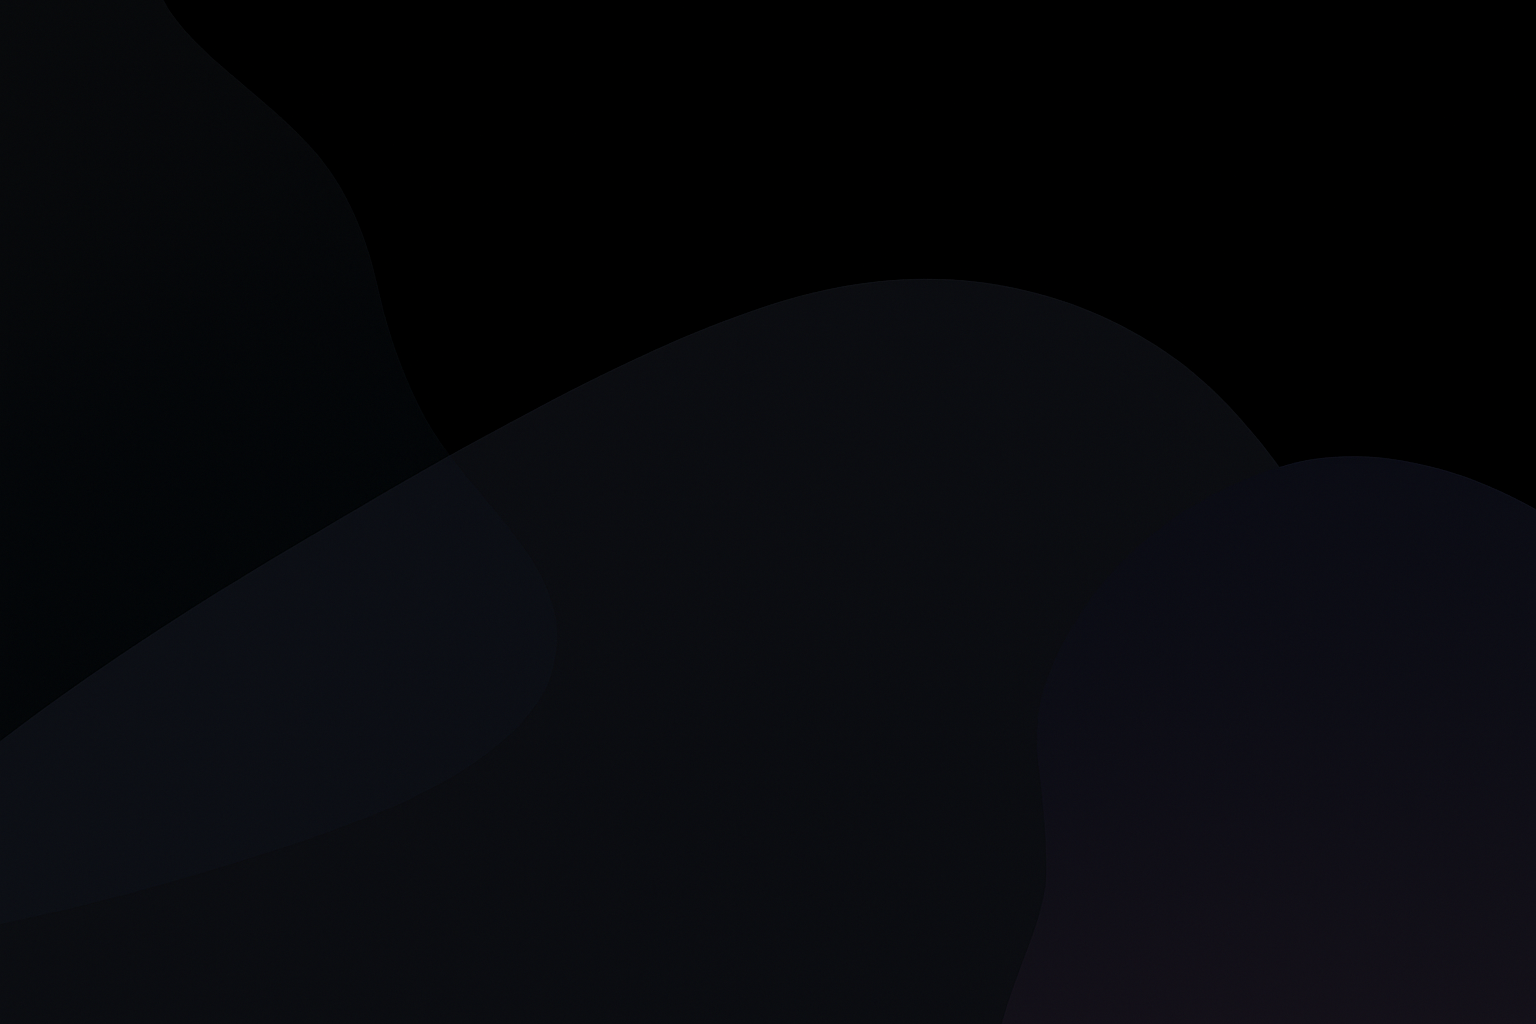
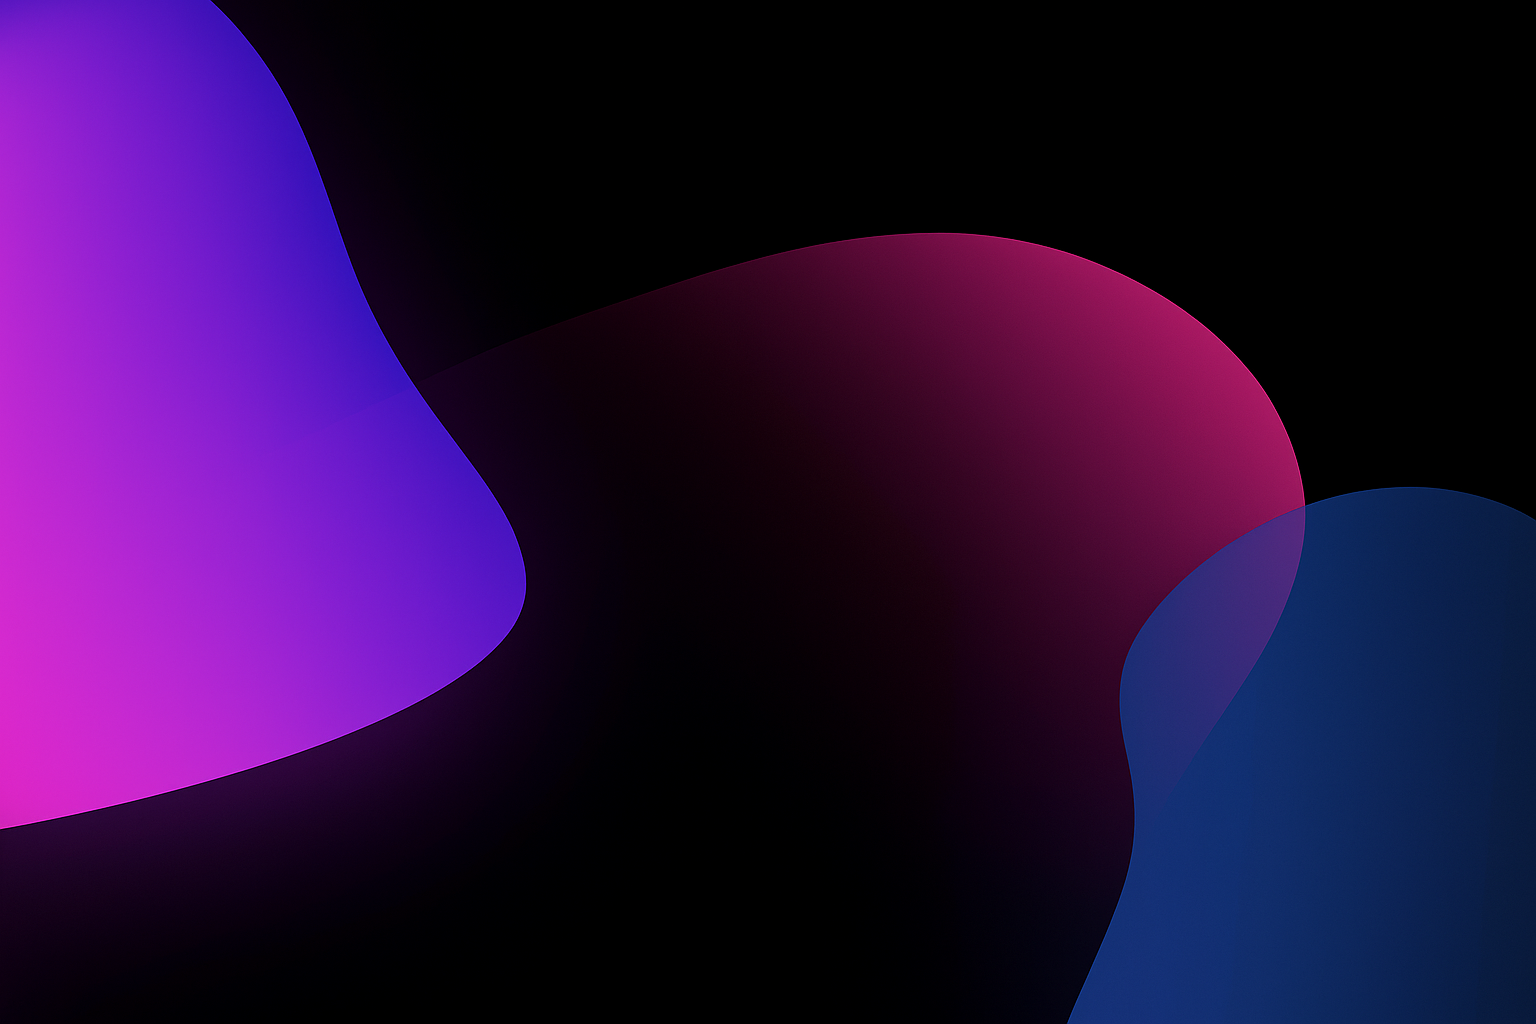
nambahin background yang shining shimering splendid dan nambahin modals

diff --git a/index.html b/index.html
@@ -34,11 +34,11 @@
   id="home-page"
   class="relative h-screen bg-[url(assets/images/background.png)] bg-cover bg-center bg-no-repeat snap-start text-white"
 >
-  <div class="absolute inset-0 bg-black/30 backdrop-blur-md"></div>
+  <div class="absolute inset-0 bg-black/30 backdrop-blur-3xl"></div>
 
   <div class="relative z-10 flex flex-col items-center justify-center h-full">
-    <h1 class="text-4xl font-bold mb-4">Welcome <span id="welcome-user">[User]</span></h1>
-    <p class="text-center max-w-md">Kaca buram vibes 🍷✨</p>
+<h1 class="text-4xl font-bold mb-4">Halo <span id="welcome-user">[User]</span>.</h1>
+    <p class="text-center max-w-md">Nama saya Febrian Eka Putra, saat ini saya sedang belajar menjadi Fullstack Web Developer.</p>
   </div>
 </section>
 
@@ -67,8 +67,43 @@
   <a href="https://x.com/penantanghilang">X</a>
 </footer>
 
+<div id="nameModal" class="fixed inset-0 bg-black bg-opacity-60 backdrop-blur-sm flex items-center justify-center z-50">
+  <div class="bg-white rounded-lg p-6 shadow-xl w-[90%] max-w-md text-center">
+    <h2 class="text-2xl font-semibold mb-4">Halo, sebelum masuk kenalin dong nama kamu siapa?</h2>
+    <input
+      type="text"
+      id="modal-name-input"
+      placeholder="Masukan nama kamu"
+      class="border w-full p-2 rounded mb-4"
+    />
+    <button
+      onclick="submitName()"
+      class="bg-stone-950 text-white px-4 py-2 rounded hover:bg-stone-800"
+    >
+      Masuk
+    </button>
+  </div>
+</div>
+
 
   <!-- JS -->
   <script src="js/script.js"></script>
+  <script>
+  tailwind.config = {
+    theme: {
+      extend: {
+        keyframes: {
+          'fade-down': {
+            '0%': { opacity: '0', transform: 'translateY(-40px)' },
+            '100%': { opacity: '1', transform: 'translateY(0)' },
+          }
+        },
+        animation: {
+          'fade-down': 'fade-down 1s ease-out forwards'
+        }
+      }
+    }
+  }
+</script>
 </body>
 </html>

diff --git a/js/script.js b/js/script.js
@@ -1,23 +1,24 @@
 
-showWelcomePopup();
+  function getGreeting() {
+    const now = new Date();
+    const hour = now.getHours();
 
-function showWelcomePopup() {
-    let userName = prompt("Please enter your name:");
-    if (userName != '') {
-        document.getElementById('welcome-user').innerHTML = userName;
+    if (hour >= 4 && hour < 11) return "Selamat pagi";
+    if (hour >= 11 && hour < 15) return "Selamat siang";
+    if (hour >= 15 && hour < 18) return "Selamat sore";
+    return "Selamat malam";
+  }
+
+  function submitName() {
+    const input = document.getElementById("modal-name-input");
+    const userName = input.value.trim();
+
+    if (userName !== "") {
+      const greeting = getGreeting();
+      document.getElementById("welcome-user").innerText = `${userName}, ${greeting}`;
+      document.getElementById("nameModal").classList.add("hidden");
     }
-}
-
-function validateForm() {
-    const nameInput = document.getElementById('name-input');
-
-    if (nameInput.value === '') {
-        alert('Please enter your name.');
-    } else {
-        document.getElementById('message-output').innerHTML = `Thank you, ${nameInput.value}, for your message!`;
-        nameInput.value = '';
-    }
-}
+  }
 
   document.addEventListener('DOMContentLoaded', function () {
     const main = document.querySelector('main');
@@ -38,6 +39,5 @@ function validateForm() {
       }
     });
 
-    // Jalankan saat pertama kali biar navbar/footernya langsung ilang kalo di hero
     main.dispatchEvent(new Event('scroll'));
   });
